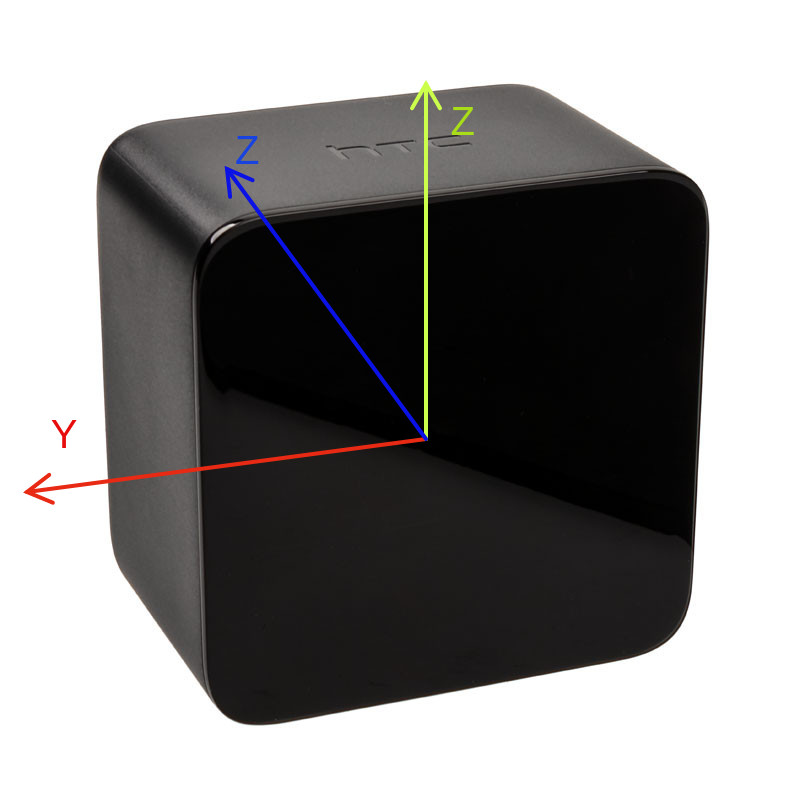
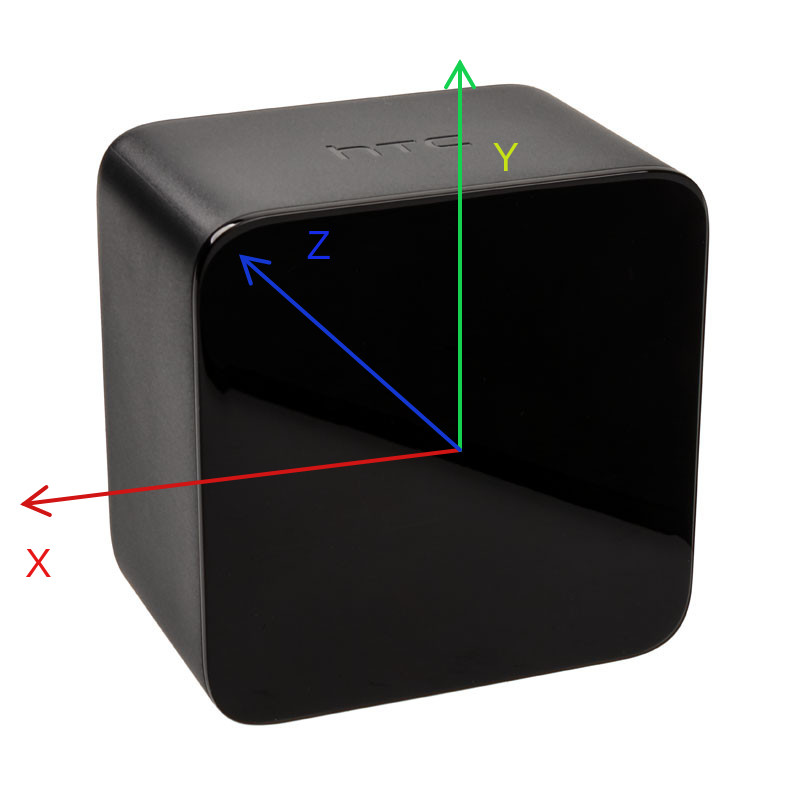
Correction in readme.md

diff --git a/README.md b/README.md
@@ -1,4 +1,4 @@
-# Teleoperation with HTC Vive HMD and trackers
+# Teleoperation with HTC Vive HMD and controllers
 
 **Hardware requirements:**
 - GPU based system (>= Scheda grafica NVIDIA GeForce RTX 2070 Max-Q)
@@ -178,7 +178,7 @@
    ```sh
     $ roscore
    ```
-2. Launch HMD and trackers nodes:
+2. Launch HMD and controllers nodes:
    
    Open a new terminal and run:
    
@@ -186,7 +186,9 @@
     $ roslaunch vive_ros vive.launch
    ```
  
-3. The sensor frame are shown in the images below:
+4. The sensor frame orientations are shown in the images below.
+   
+   (DISCLAIMER) The origin of the reference frames drawn is not the real one.
 
     ![Alt text](images/lighthouse_frame.jpg?raw=true "lighthouse frame")
    
